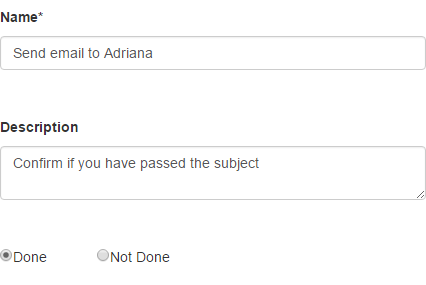
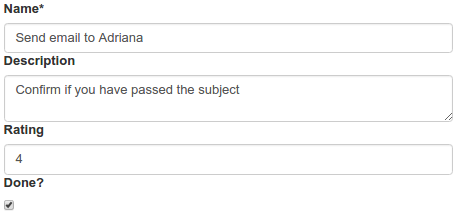
Consolidate custom renderer example in the intro

diff --git a/partials/docs/introduction.md b/partials/docs/introduction.md
@@ -24,6 +24,10 @@ For the declarative description of a form, JSON forms uses a simple JSON format,
 
 ![JSON Forms Editor](images/docs/introduction.jsonformseditor.png){:.img-responsive}
 
-JSON Forms provides default renderers for all data types, however, you can change the way things are rendered by providing [custom renderers](#/docs/customrenderer). In the following example, the attribute "done" is rendered with a custom renderer, which is plugged into the framework. As you can see, the boolean value is not displayed as a checkbox anymore, but rather, using radio buttons. By plugging in custom renderers, you can adapt the UI created by JSON Forms to your requirements and also support domain specific data types and visualizations.
+JSON Forms provides default renderers for all data types, however, you can change the way things are rendered by providing [custom renderers](#/docs/customrenderer). Consider, for instance, you want to add a new property called "rating" of type integer with a maximum value of 5 to the data schema of our example above and also add a control for it below the description control in the UI schema. The default renderer will produce a form that looks as follows:
 
-![JSON Forms](images/docs/introduction.jsonforms.png){:.img-responsive}
+![JSON Forms with Default Renderer](images/docs/introduction.jsonforms.png){:.img-responsive}
+
+A plain text box for entering a rating may not be ideal for all scenarios. Therefore JSON Forms allows you to create a custom renderer, which can be plugged into the framework. With such a custom renderer, the integer value is not displayed as a text box anymore, but rather, using a more appealing control that allows users to set the rating by selecting the number of stars they want to assign (see screenshot below). By plugging in custom renderers, you can adapt the UI created by JSON Forms to your requirements and also support domain specific data types and visualizations.
+
+![JSON Forms with Custom Renderer](images/docs/introduction.jsonformscustom.png){:.img-responsive}
